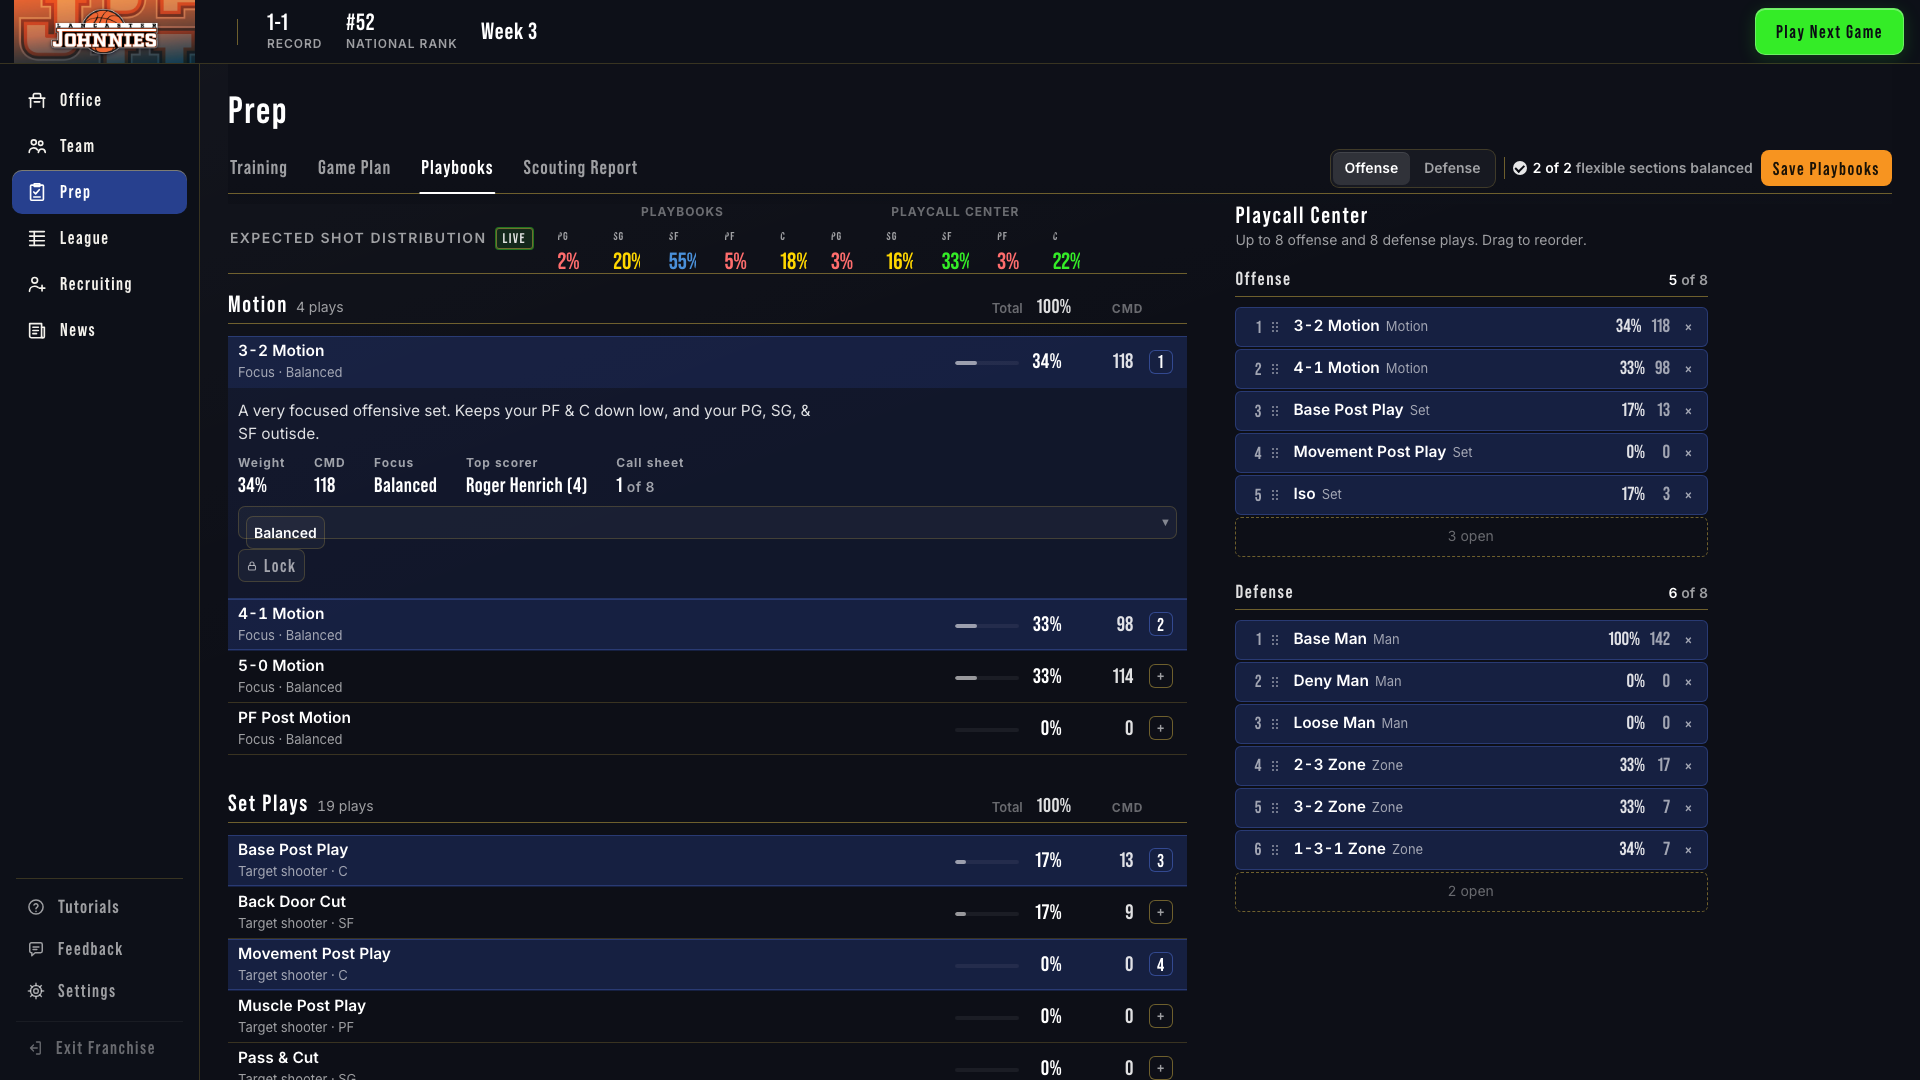
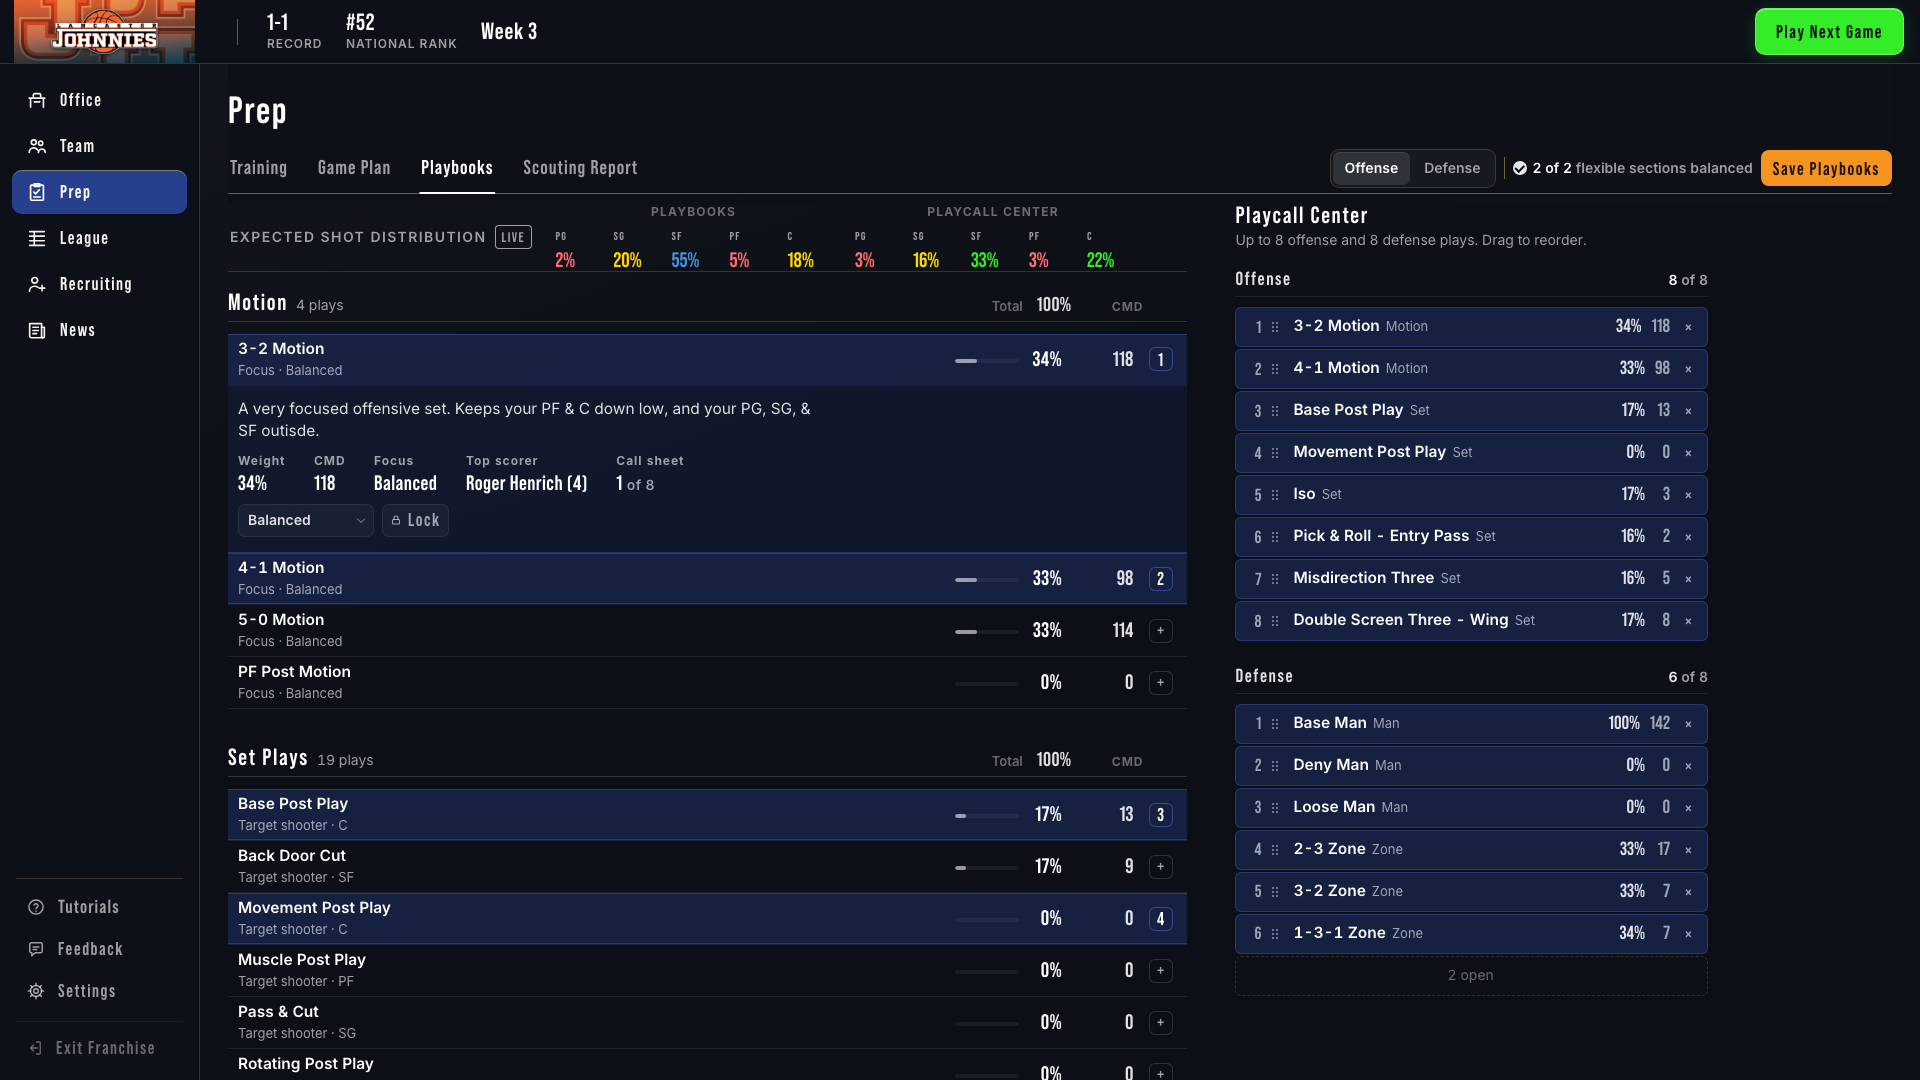
Fix the Playbooks Focus select, clipped shot-strip values, and leftover colour-law lines.

diff --git a/FrontEnd/static/playbooks.css b/FrontEnd/static/playbooks.css
@@ -1015,7 +1015,14 @@ input[type="reset"] {
   }
 }
 
-/* Prep v2 Playbooks view. Tokens only. Beats #franchise-container .tab-content h3. */
+/* Prep v2 Playbooks view. Tokens only. Beats #franchise-container .tab-content h3.
+   Re-bind hairlines so playbooks.css :root gold --line / --line-strong cannot leak. */
+#franchise-container #playbooks-view.tab-content,
+#playbooks-view {
+  --line: rgba(255, 255, 255, 0.08);
+  --line-strong: rgba(255, 255, 255, 0.14);
+}
+
 #franchise-container #playbooks-view.tab-content {
   padding: 0;
   border: 0;
@@ -1396,24 +1403,93 @@ html.gob-1920 #playbooks-view .playbooks-layout {
   margin-left: var(--space-4);
 }
 
-#playbooks-view .pdet .et-select-wrap,
-#playbooks-view .pdet select {
+#playbooks-view .pdet-tools {
+  display: flex;
+  align-items: center;
+  gap: var(--space-8);
   margin-top: var(--space-10);
+}
+
+#playbooks-view .pdet .sel {
+  position: relative;
+  display: inline-flex;
+  align-items: center;
+  justify-content: space-between;
+  gap: var(--space-10);
   height: var(--dsz-28);
-  padding: 0 var(--space-8);
-  border: 0;
+  min-width: 68px;
+  margin: 0;
+  padding: 0 var(--space-10);
   border-radius: var(--radius-7);
   background: var(--white-4);
   box-shadow: inset 0 0 0 1px var(--line);
-  color: var(--text-100);
+  color: var(--text-87);
+  font-size: var(--fs-12);
+  font-weight: var(--fw-semibold);
+  white-space: nowrap;
+  cursor: pointer;
+}
+
+#playbooks-view .pdet .sel.lg {
+  min-width: 136px;
+}
+
+#playbooks-view .pdet .sel:hover {
+  background: var(--white-7);
+}
+
+#playbooks-view .pdet .sel::after {
+  content: "";
+  width: 5px;
+  height: 5px;
+  margin-top: -3px;
+  border-right: 1.5px solid var(--text-38);
+  border-bottom: 1.5px solid var(--text-38);
+  transform: rotate(45deg);
+  pointer-events: none;
+  flex: none;
+}
+
+#playbooks-view .pdet .sel select {
+  appearance: none;
+  -webkit-appearance: none;
+  flex: 1;
+  min-width: 0;
+  width: 100%;
+  height: 100%;
+  margin: 0;
+  padding: 0;
+  border: 0;
+  border-radius: 0;
+  background: transparent;
+  box-shadow: none;
+  color: var(--text-87);
   font: var(--fw-semibold) var(--fs-12)/var(--lh-1) var(--font-body);
+  cursor: pointer;
+}
+
+#playbooks-view .pdet .sel select:focus {
+  outline: none;
+}
+
+#playbooks-view .pdet .sel:focus-within {
+  box-shadow: inset 0 0 0 1px var(--line-strong);
+}
+
+#playbooks-view .pdet .sel select:focus-visible {
+  outline: 2px solid var(--white);
+  outline-offset: 2px;
+}
+
+#playbooks-view .pdet .caret {
+  display: none;
 }
 
 #playbooks-view .play-lock {
   display: inline-flex;
   align-items: center;
   gap: var(--space-6);
-  margin-top: var(--space-10);
+  margin: 0;
   height: var(--dsz-28);
   padding: 0 var(--space-8);
   border: 0;
@@ -1450,7 +1526,7 @@ html.gob-1920 #playbooks-view .playbooks-layout {
   justify-content: space-between;
   margin-top: var(--dsp-12);
   padding-bottom: var(--space-6);
-  border-bottom: 1px solid var(--line-strong);
+  border-bottom: 1px solid var(--line);
 }
 
 #playbooks-view .pcs-g b {
@@ -1604,61 +1680,79 @@ html.gob-1920 #playbooks-view .playbooks-layout {
   white-space: nowrap;
 }
 
+#playbooks-view .playbooks-shot-weights-strip .psw-live-pill,
 #playbooks-view .psw-live-pill,
 #playbooks-view .tg {
   display: inline-flex;
   align-items: center;
   height: var(--dsz-20, 20px);
   padding: var(--space-1) var(--space-7, 7px) 0;
+  border: 0;
   border-radius: var(--radius-4, 4px);
+  background: transparent;
   font: var(--fw-bold) var(--fs-12)/var(--lh-1) var(--font-display);
   letter-spacing: var(--tracking-10);
-  color: var(--text-87);
-  box-shadow: inset 0 0 0 1px var(--line-strong);
+  color: var(--text-60);
+  box-shadow: inset 0 0 0 1px var(--text-60);
 }
 
 #playbooks-view .psw-root,
-#playbooks-view .psw-c,
-#playbooks-view .psw-strip {
+#playbooks-view .psw-c {
   display: flex;
   align-items: center;
   gap: var(--dsp-24);
   margin-left: auto;
 }
 
+#playbooks-view .psw-strip {
+  display: flex;
+  align-items: flex-end;
+  gap: var(--dsp-12);
+  flex: none;
+  margin-left: 0;
+}
+
 #playbooks-view .psw-group {
   display: flex;
   align-items: center;
   gap: var(--space-10);
+  flex: none;
 }
 
 #playbooks-view .psw-group-label {
   font-size: var(--fs-10);
   font-weight: var(--fw-bold);
-  letter-spacing: var(--tracking-8);
+  letter-spacing: var(--tracking-10);
+  text-transform: uppercase;
   color: var(--text-38);
   white-space: nowrap;
 }
 
 #playbooks-view .psw-pill {
   display: flex;
+  flex: none;
   flex-direction: column;
   align-items: flex-start;
   gap: var(--space-2);
+  min-width: 4.5ch;
   padding: 0;
   border: 0 !important;
   background: transparent;
+  overflow: visible;
 }
 
 #playbooks-view .psw-pill-pos {
   font-size: var(--fs-10);
   font-weight: var(--fw-bold);
-  letter-spacing: var(--tracking-8);
+  letter-spacing: var(--tracking-10);
+  text-transform: uppercase;
   color: var(--text-60);
+  white-space: nowrap;
 }
 
 #playbooks-view .psw-pill-val {
-  font: var(--fw-bold) var(--fs-20)/var(--lh-1) var(--font-display);
+  font: var(--fw-bold) var(--fs-18)/var(--lh-1) var(--font-display);
+  white-space: nowrap;
 }
 
 #playbooks-view .psw-pill-accent {

diff --git a/FrontEnd/static/playbooks.js b/FrontEnd/static/playbooks.js
@@ -804,6 +804,9 @@ function cloneParams(params) {
       const lockHtml = ENFORCED_SECTIONS.has(sectionKey)
         ? `<button class="play-lock" type="button" data-lock="${escapeHtml(item.id)}" title="${item.locked ? "Unlock" : "Lock"}">${LOCK_SVG}<span>${item.locked ? "Unlock" : "Lock"}</span></button>`
         : "";
+      const tools = (selectHtml || lockHtml)
+        ? `<div class="pdet-tools">${selectHtml}${lockHtml}</div>`
+        : "";
       const note = flags.isComputed ? `<p class="pdet-note">${escapeHtml(flags.computedNote || "")}</p>` : "";
       const noSlack = flags.noSlackHere ? `<p class="pdet-note">${NOSLACK_COPY}</p>` : "";
       detail.innerHTML = `
@@ -817,8 +820,7 @@ function cloneParams(params) {
           ${top}
           ${sheet}
         </div>
-        ${selectHtml}
-        ${lockHtml}
+        ${tools}
       `;
       return detail;
     }
@@ -829,13 +831,13 @@ function cloneParams(params) {
         const opts = MOTION_FOCUS_OPTIONS.map((option) =>
           `<option value="${option.value}" ${current === option.value ? "selected" : ""}>${option.label}</option>`
         ).join("");
-        return `<div class="et-select-wrap"><select class="motion-focus-select" data-id="${escapeHtml(item.id)}">${opts}</select><span class="caret">▼</span></div>`;
+        return `<label class="sel lg"><select class="motion-focus-select" data-id="${escapeHtml(item.id)}">${opts}</select></label>`;
       }
       if (options.kind === "set") {
         const opts = TARGET_SHOOTER_OPTIONS.map((value) =>
           `<option value="${value}" ${item.target_shooter === value ? "selected" : ""}>${value}</option>`
         ).join("");
-        return `<div class="et-select-wrap is-pos"><select class="target-shooter-select" data-id="${escapeHtml(item.id)}">${opts}</select><span class="caret">▼</span></div>`;
+        return `<label class="sel"><select class="target-shooter-select" data-id="${escapeHtml(item.id)}">${opts}</select></label>`;
       }
       return "";
     }

diff --git a/reports/prep-v2-pr3-2026-09-28.md b/reports/prep-v2-pr3-2026-09-28.md
@@ -58,3 +58,23 @@ No page errors on the screenshot pass.
 Port 8088, workers 1, `env -u CI`. During work: shell-1, shell-1b, shell-2 (29), and the store-client playbooks save test. Full suite at the end: **540 passed, 2 skipped**. No other agent's Playwright was running. The 8088 webServer exited with the suite. The 8091 loopback was stopped. Suite-regenerated images outside `reports/prep-v2-pr3/` were restored.
 
 STATUS: COMPLETE
+
+## Review fixes (visual, CSS/markup only)
+
+Three leftovers in `#playbooks-view`. Save payload, weights, `togglePcc`, and `getPswColor` were not touched.
+
+1. **Focus select.** The wrap and the native `<select>` were both painted, and a `▼` caret sat on top of an empty bar. The control is now one quiet `.sel` (same recipe as the Training Development Focus select in the handoff): current value inside the field, CSS chevron, keyboard-focusable. Lock sits in `.pdet-tools` on the same row.
+2. **Shot strip.** Pills no longer `flex: 1` / `overflow: hidden`. Each cell has a `4.5ch` floor, numerals step down to `--fs-18`, labels are the normal eyebrow (`--fs-10` / `--tracking-10` / uppercase). Production colours unchanged.
+3. **Colour law.** LIVE is `--text-60` type and outline, no green fill. `#playbooks-view` rebinds `--line` / `--line-strong` to the gob hairlines so the page `:root` gold cannot leak. Offense / Defense rules use `--line`.
+
+### Self-check (re-taken `playbooks-offense-1280.png` and `playbooks-offense-1920.png`)
+
+- **Focus.** One 28px quiet select with "Balanced" inside the control and a small chevron on the right. No empty second bar, no floating chip. Lock is the same height, immediately to the right, aligned.
+- **Strip.** PLAYBOOKS `2% 20% 55% 5% 18%` and PLAYCALL CENTER `3% 16% 33% 3% 22%` — every `%` visible at 1280 and 1920. PG/SG/SF/PF/C at eyebrow size. Colours still red / gold / blue / green from `getPswColor`.
+- **Lines.** LIVE is a muted white-60 outlined pill, not green. The rule under Offense and under Defense is the standard white-8 hairline (`--line`), not amber/gold.
+
+### Tests
+
+shell-1, shell-1b, shell-2, and store-client `playbooks save`: **30 passed**. One `browse and focus pages` run hit the 360s timeout while the 8091 loopback was still up; the same spec passed in 26s on retry with loopback stopped. Full suite was not re-run.
+
+STATUS: COMPLETE
